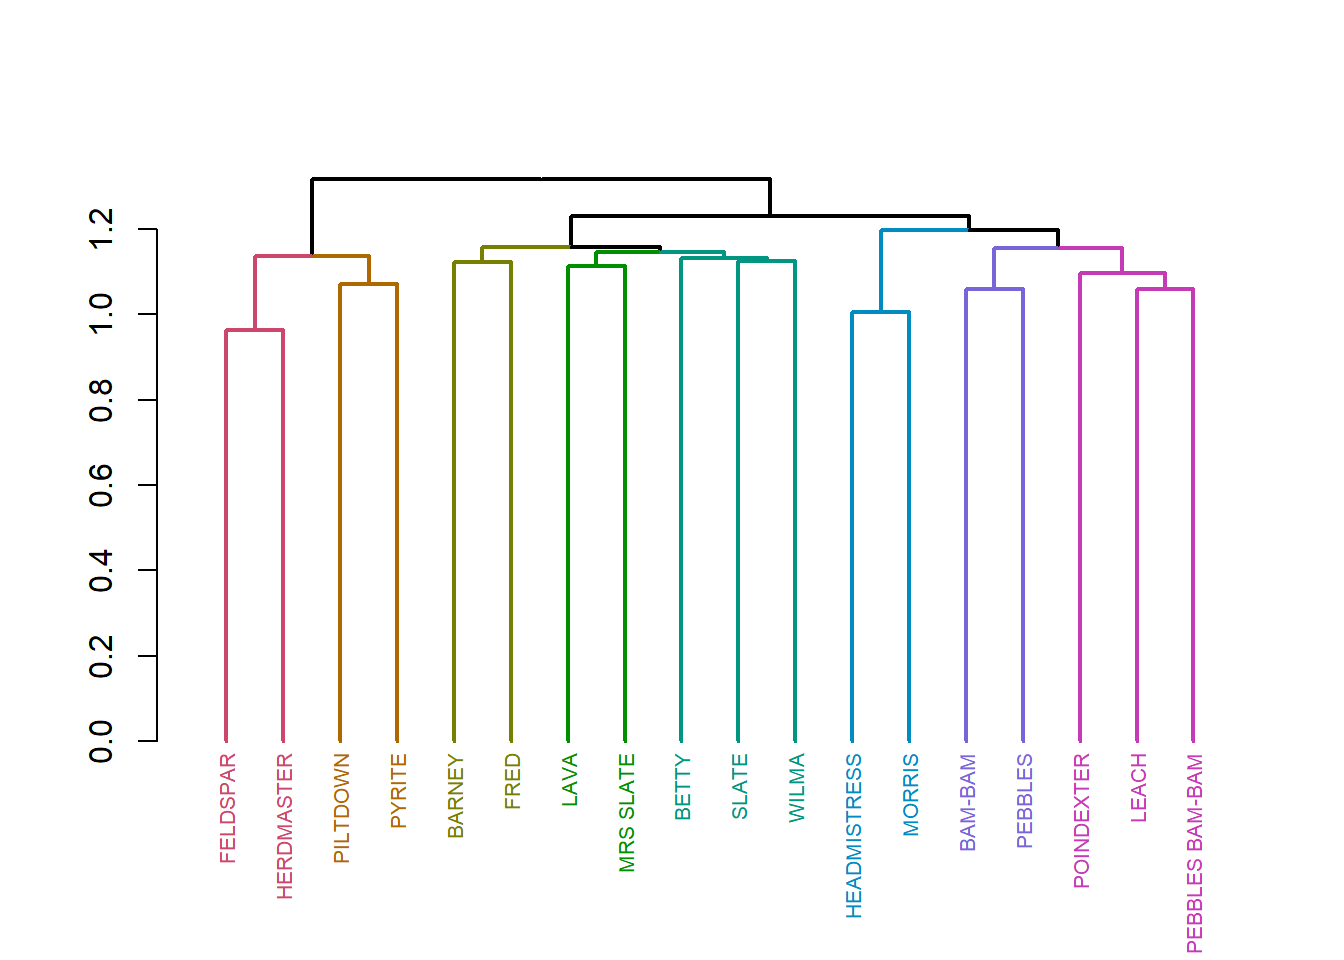
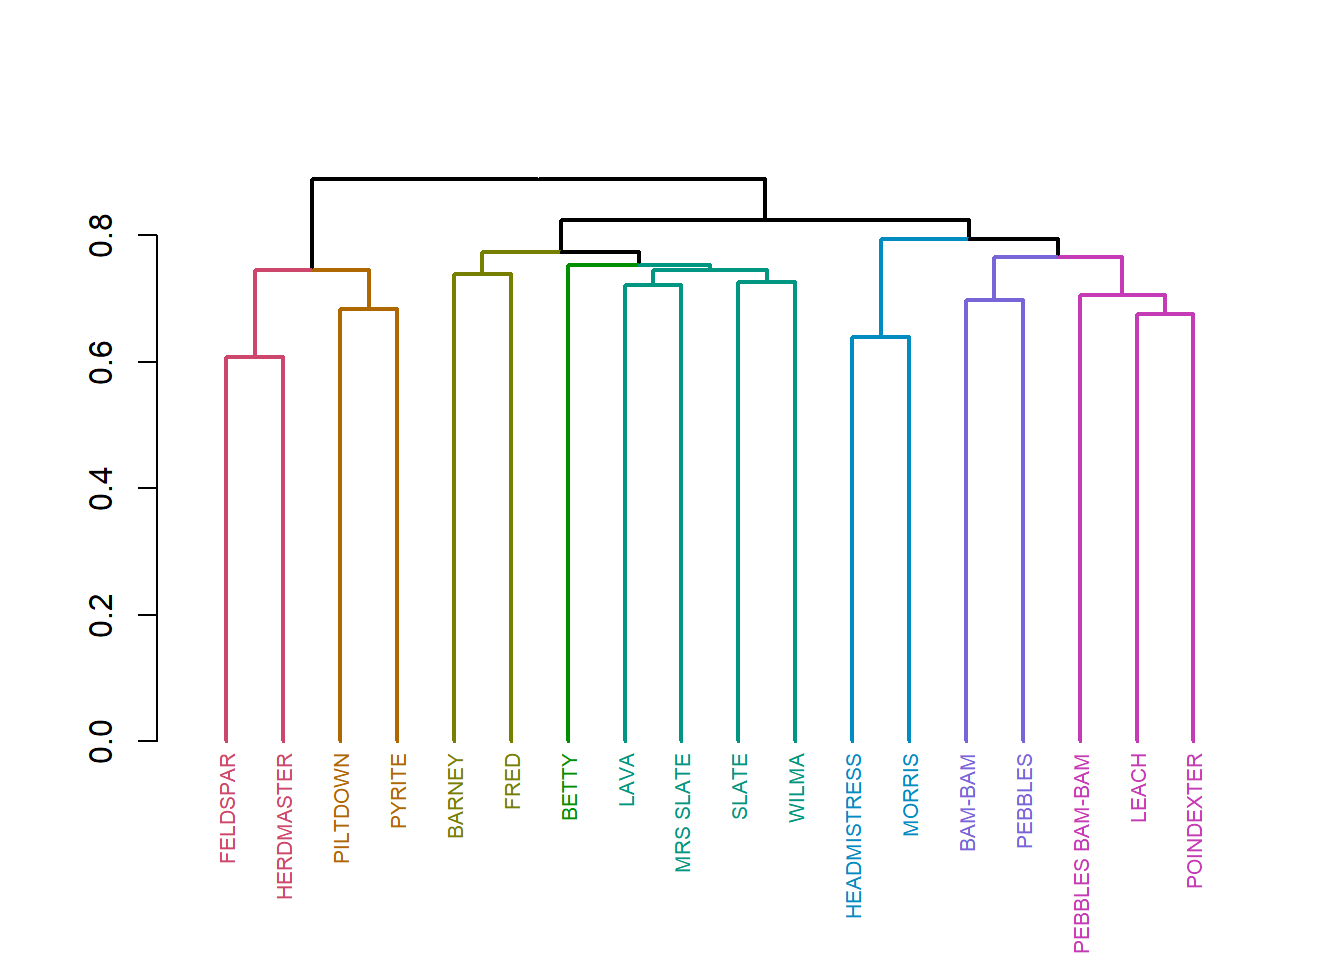
simrank again

diff --git a/docs/handout5.html b/docs/handout5.html
@@ -648,10 +648,10 @@ I 0.00 0.67 0.67 0.25 0.25 0.25 0.00 0.75 1.00</code></pre>
 <p>As <span class="citation" data-cites="jeh_widom02">Jeh and Widom (<a href="#ref-jeh_widom02" role="doc-biblioref">2002</a>)</span> note, this approach does lead to a coherent generalization of the idea of similarity for nodes in graphs because we can just define similarity <em>recursively</em> and iterate through the graph until the similarity scores stop changing.<a href="#fn1" class="footnote-ref" id="fnref1" role="doc-noteref"><sup>1</sup></a></p>
 <p>More specifically, they propose to measure the similarity between two nodes <span class="math inline">\(i\)</span> and <span class="math inline">\(j\)</span> at each time-step in the iteration using the formula:</p>
 <p><span class="math display">\[\begin{equation}
-   s_{ij} = \frac{\alpha}{d_i d_j} \sum_{k=1}^{d_i} \sum_{l=1}^{d_j} s_{kl}
+   s_{ij} = \frac{\alpha}{d_i d_j} \sum_{k \in N(i)} \sum_{l \in N(j)} s_{kl}
 \end{equation}\]</span></p>
-<p>So the similarity between two nodes is just the sum of the pairwise similarities between the set of nodes formed by the union of their neighborhoods, weighted by the ratio of a free parameter <span class="math inline">\(\alpha\)</span> (a number between zero and one) to the product of their degrees.</p>
-<p>This measure nicely capture the idea that nodes are similar to the extent they both connect to people who are themselves similar. Note that it doesn’t matter whether these neighbors are shared between the two nodes (the summation occurs over <span class="math inline">\(p\)</span> + <span class="math inline">\(q\)</span> + <span class="math inline">\(r\)</span> as defined earlier) or whether the set of neighbors are themselves neighbors, which deals with the doctor/patient problem.</p>
+<p>So the similarity between two nodes is just the sum of the pairwise similarities between each of their neighbors (computed in the previous step), weighted by the ratio of a free parameter <span class="math inline">\(\alpha\)</span> (a number between zero and one) to the product of their degrees (to take a weighted average).</p>
+<p>This measure nicely capture the idea that nodes are similar to the extent they both connect to people who are themselves similar. Note that it doesn’t matter whether these neighbors are shared between the two nodes (the summation occurs over each pair of nodes in <span class="math inline">\(p\)</span> + <span class="math inline">\(q\)</span> versus <span class="math inline">\(p\)</span> + <span class="math inline">\(r\)</span> as defined earlier) or whether the set of neighbors are themselves neighbors, which deals with the doctor/patient problem.</p>
 <p>A function that implements this idea looks like:</p>
 <div class="cell">
 <div class="sourceCode cell-code" id="cb19"><pre class="sourceCode numberSource r number-lines code-with-copy"><code class="sourceCode r"><span id="cb19-1"><a href="#cb19-1"></a>   SimRank.in <span class="ot">&lt;-</span> <span class="cf">function</span>(A, <span class="at">C =</span> <span class="fl">0.8</span>, <span class="at">iter =</span> <span class="dv">10</span>) {</span>
@@ -684,31 +684,31 @@ I 0.00 0.67 0.67 0.25 0.25 0.25 0.00 0.75 1.00</code></pre>
 <span id="cb19-28"><a href="#cb19-28"></a>}</span></code><button title="Copy to Clipboard" class="code-copy-button"><i class="bi"></i></button></pre></div>
 </div>
 <p>Note that this function calculates <code>SimRank</code> using each node’s in-neighbors (it doesn’t matter if the graph is undirected).</p>
-<p>Let’s try it out in the <em>Flintstones</em> graph:</p>
+<p>Let’s try it out in the <em>Flintstones</em> graph using <span class="math inline">\(\alpha = 0.95\)</span>:</p>
 <div class="cell">
 <div class="sourceCode cell-code" id="cb20"><pre class="sourceCode numberSource r number-lines code-with-copy"><code class="sourceCode r"><span id="cb20-1"><a href="#cb20-1"></a>   A <span class="ot">&lt;-</span> <span class="fu">as.matrix</span>(<span class="fu">as_adjacency_matrix</span>(g.flint))</span>
-<span id="cb20-2"><a href="#cb20-2"></a>   S <span class="ot">&lt;-</span> <span class="fu">SimRank.in</span>(A)</span>
+<span id="cb20-2"><a href="#cb20-2"></a>   S <span class="ot">&lt;-</span> <span class="fu">SimRank.in</span>(A, <span class="fl">0.95</span>)</span>
 <span id="cb20-3"><a href="#cb20-3"></a>   <span class="fu">round</span>(S[, <span class="dv">1</span><span class="sc">:</span><span class="dv">5</span>], <span class="dv">2</span>)</span></code><button title="Copy to Clipboard" class="code-copy-button"><i class="bi"></i></button></pre></div>
 <div class="cell-output cell-output-stdout">
 <pre><code>                BAM-BAM BARNEY BETTY FELDSPAR FRED
-BAM-BAM            1.00   0.19  0.20     0.27 0.20
-BARNEY             0.19   1.00  0.20     0.18 0.21
-BETTY              0.20   0.20  1.00     0.21 0.20
-FELDSPAR           0.27   0.18  0.21     1.00 0.18
-FRED               0.20   0.21  0.20     0.18 1.00
-HEADMISTRESS       0.20   0.21  0.19     0.16 0.20
-HERDMASTER         0.21   0.20  0.21     0.32 0.20
-LAVA               0.21   0.20  0.20     0.22 0.20
-LEACH              0.23   0.21  0.21     0.27 0.19
-MORRIS             0.23   0.21  0.19     0.16 0.19
-MRS SLATE          0.21   0.19  0.20     0.20 0.20
-PEBBLES            0.25   0.19  0.20     0.27 0.20
-PEBBLES BAM-BAM    0.22   0.21  0.21     0.20 0.20
-PILTDOWN           0.21   0.21  0.20     0.25 0.20
-POINDEXTER         0.21   0.20  0.21     0.25 0.19
-PYRITE             0.21   0.21  0.20     0.25 0.20
-SLATE              0.21   0.20  0.20     0.23 0.20
-WILMA              0.21   0.19  0.20     0.21 0.20</code></pre>
+BAM-BAM            1.00   0.46  0.47     0.52 0.47
+BARNEY             0.46   1.00  0.47     0.45 0.48
+BETTY              0.47   0.47  1.00     0.48 0.47
+FELDSPAR           0.52   0.45  0.48     1.00 0.46
+FRED               0.47   0.48  0.47     0.46 1.00
+HEADMISTRESS       0.47   0.48  0.46     0.44 0.48
+HERDMASTER         0.48   0.47  0.48     0.57 0.48
+LAVA               0.48   0.47  0.47     0.49 0.48
+LEACH              0.49   0.48  0.48     0.53 0.47
+MORRIS             0.49   0.48  0.47     0.44 0.47
+MRS SLATE          0.47   0.46  0.47     0.48 0.47
+PEBBLES            0.51   0.47  0.48     0.53 0.48
+PEBBLES BAM-BAM    0.49   0.48  0.48     0.48 0.48
+PILTDOWN           0.47   0.48  0.47     0.52 0.48
+POINDEXTER         0.47   0.47  0.48     0.51 0.47
+PYRITE             0.47   0.48  0.47     0.52 0.48
+SLATE              0.47   0.47  0.48     0.50 0.48
+WILMA              0.47   0.47  0.48     0.48 0.47</code></pre>
 </div>
 </div>
 <p>We can transform the generalized similarities to distances and plot:</p>
@@ -726,6 +726,7 @@ WILMA              0.21   0.19  0.20     0.21 0.20</code></pre>
 <p><img src="handout5_files/figure-html/unnamed-chunk-13-1.png" class="img-fluid" width="672"></p>
 </div>
 </div>
+<p>Which returns an intuitive role partition.</p>
 
 
 
